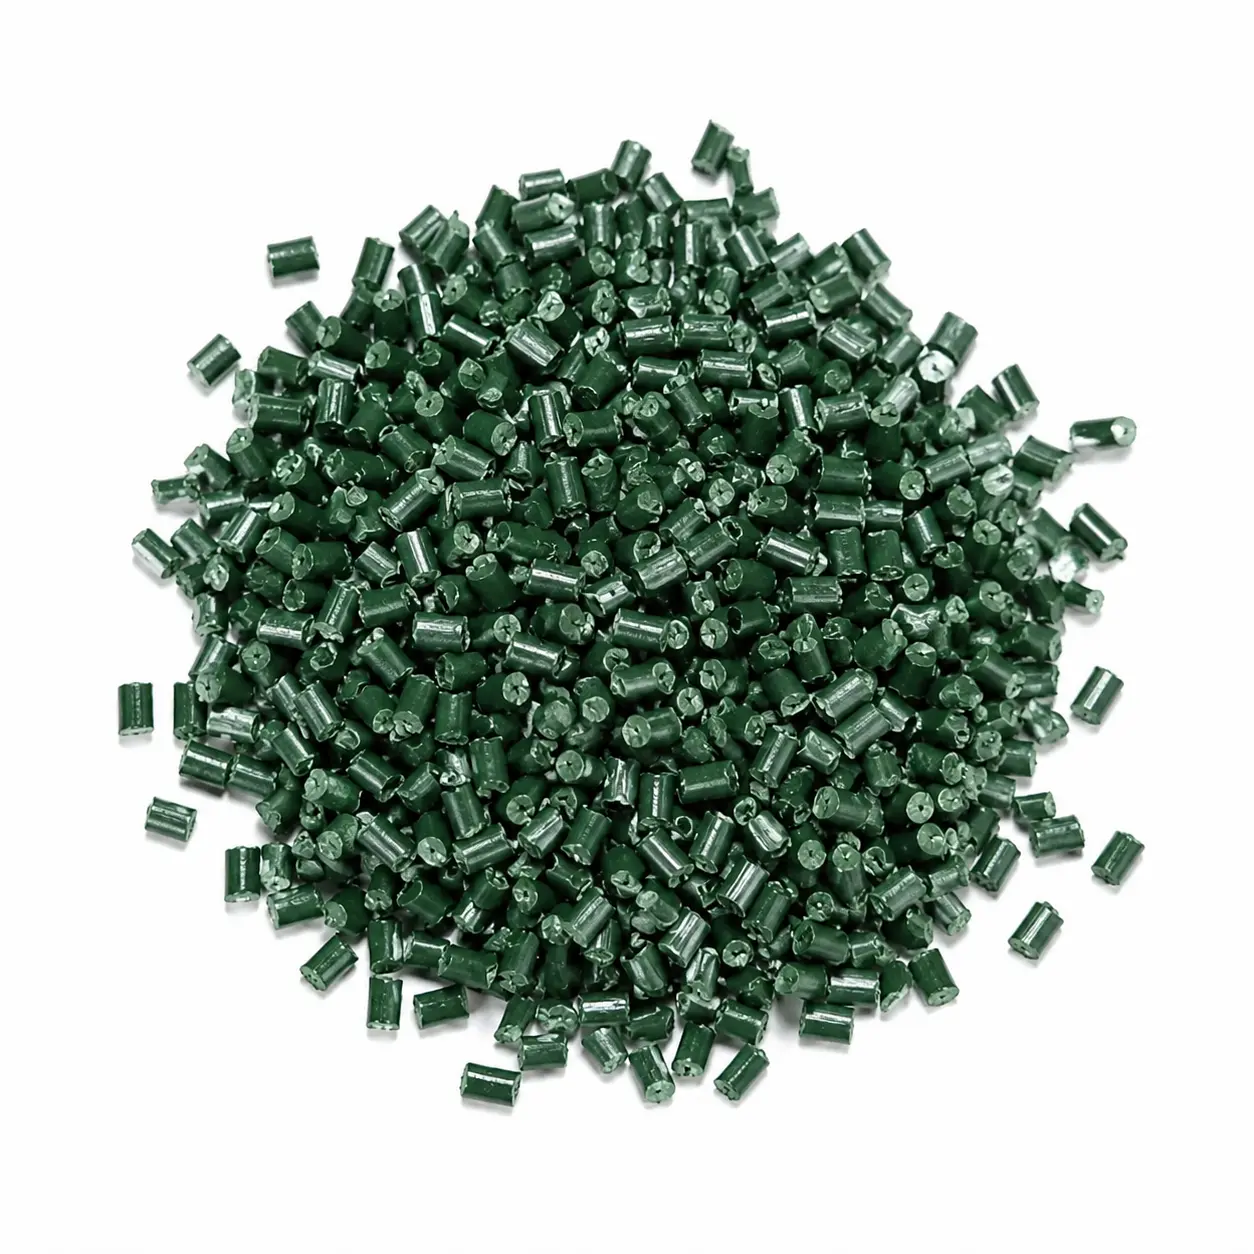
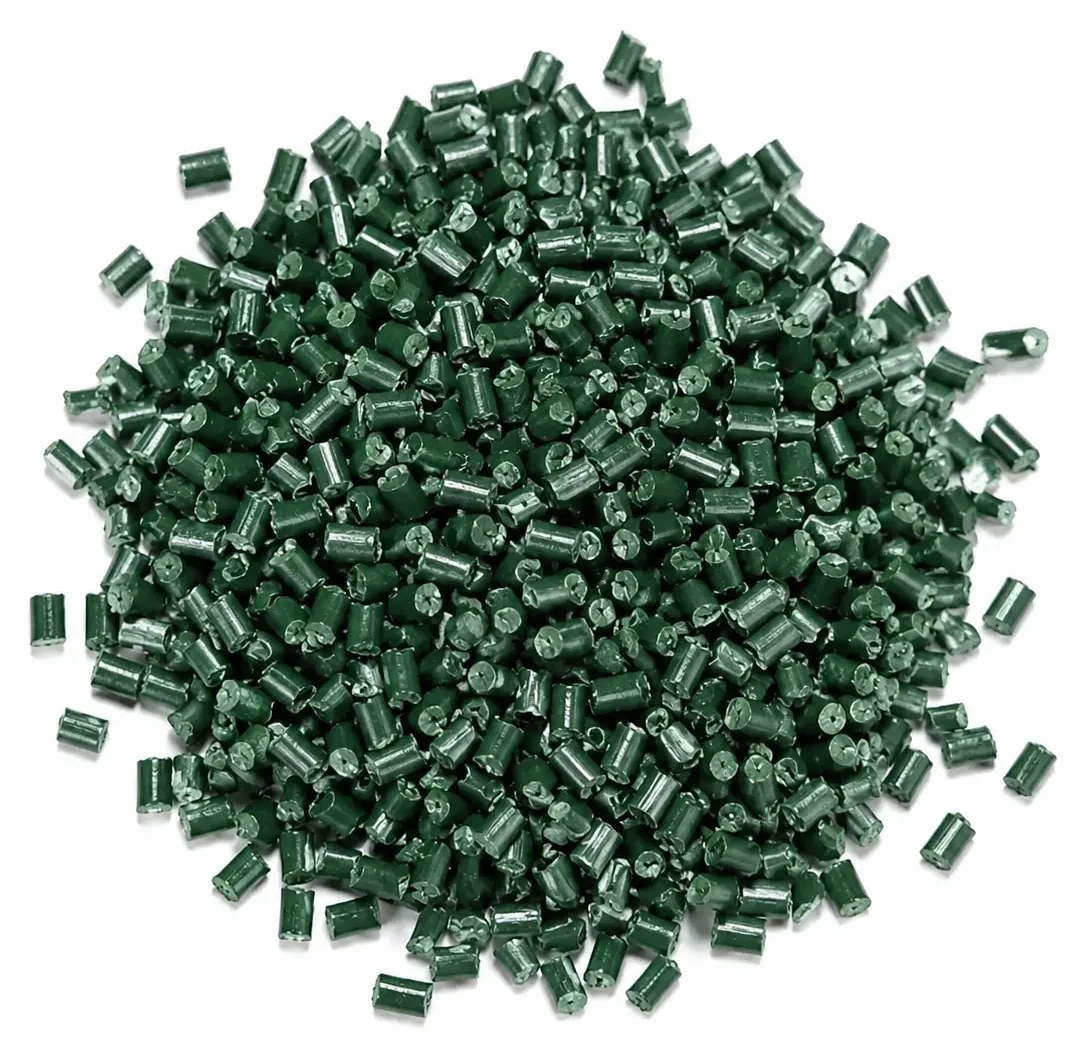
Foto biji: pangkas margin putih biji1.webp agar mengisi bingkai
biji1.webp (1254x1254 -> 1086x1055): margin putih ~9-11% dipangkas
supaya pile pellet mengisi kontainer, bobot visual seimbang dgn foto
tali (beranda & produk). Atribut width/height gambar disesuaikan di
index.html & produk.html. object-fit: contain tetap (produk utuh).

diff --git a/index.html b/index.html
@@ -129,7 +129,7 @@
             <span class="pcard__more">Selengkapnya →</span>
           </a>
           <a class="card pcard" href="/produk.html#biji">
-            <img class="pcard__img" src="/assets/product/biji1.webp" alt="Biji plastik PP (pellet) warna hijau" width="1254" height="1254" loading="lazy" />
+            <img class="pcard__img" src="/assets/product/biji1.webp" alt="Biji plastik PP (pellet) warna hijau" width="1086" height="1055" loading="lazy" />
             <span class="pcard__tag">Bahan baku</span>
             <h3>Biji Plastik PP</h3>
             <p>Pellet biji plastik PP hasil olahan konsisten, siap dipakai untuk proses ekstrusi maupun injeksi dengan suplai berkelanjutan.</p>

diff --git a/produk.html b/produk.html
@@ -100,7 +100,7 @@
         <!-- Biji -->
         <article class="prod prod--reverse" id="biji">
           <div class="prod__media">
-            <img class="prod__img" src="/assets/product/biji1.webp" alt="Biji plastik PP (pellet) warna hijau siap untuk ekstrusi dan injeksi" width="1254" height="1254" loading="lazy" />
+            <img class="prod__img" src="/assets/product/biji1.webp" alt="Biji plastik PP (pellet) warna hijau siap untuk ekstrusi dan injeksi" width="1086" height="1055" loading="lazy" />
             <figure class="prod__proof">
               <img src="/assets/product/biji.webp" alt="Biji plastik PP hasil produksi langsung di Balaraja, Kabupaten Tangerang" width="1600" height="1600" loading="lazy" />
               <figcaption>Produksi langsung di<br />Balaraja, Kab. Tangerang</figcaption>